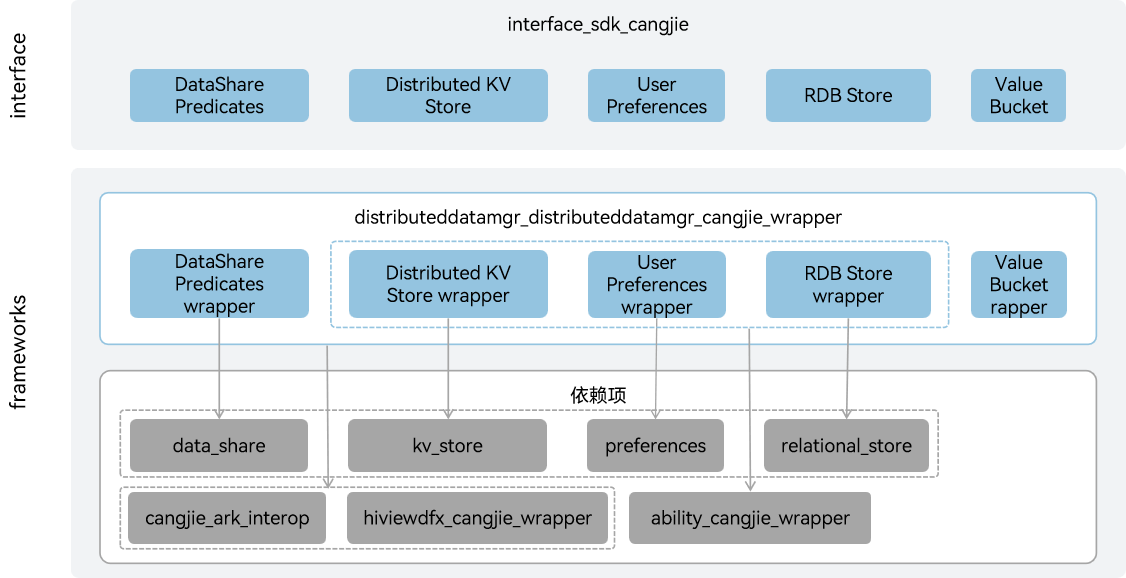
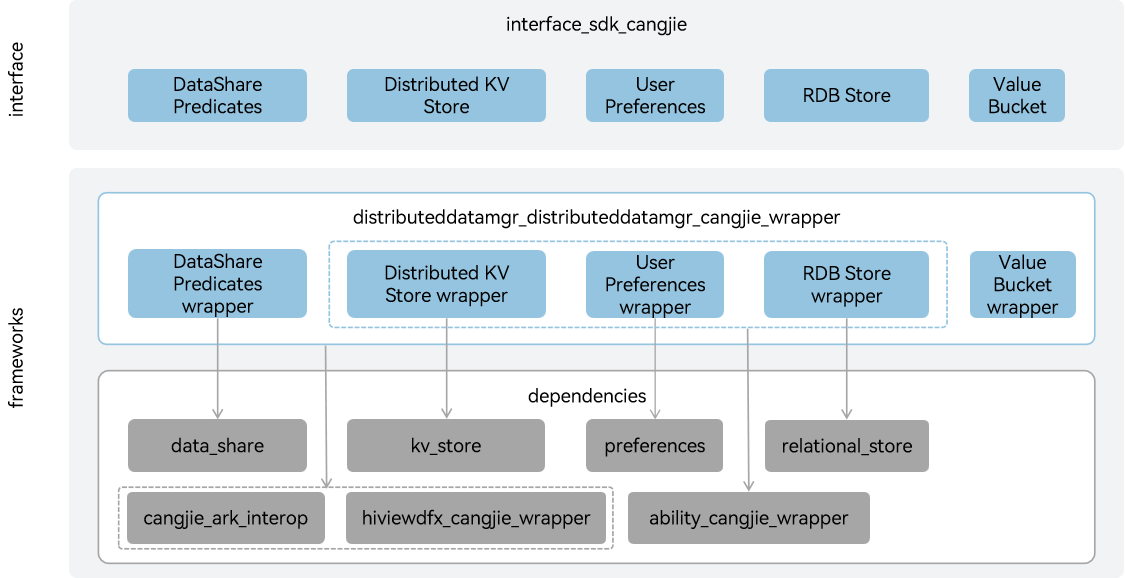
fix readme

diff --git a/README.md b/README.md
@@ -2,7 +2,7 @@
 
 ## Introduction
 
-The distributeddatamgr_distributeddatamgr_cangjie_wrapper is a capability provided on OpenHarmony for developers using the Cangjie programming language to develop applications. It enables the persistence of various structured data, as well as the synchronization and sharing of data across devices. By leveraging the Cangjie-encapsulated distributed data management, developers can easily achieve seamless connection of application data across different terminal devices, satisfying users' need for a consistent experience when using data across devices.The distributeddatamgr_distributeddatamgr_cangjie_wrapper currently under development only supports standard devices.
+The distributeddatamgr_distributeddatamgr_cangjie_wrapper provides persistence of various structured data and synchronization and sharing functions of data between different devices for developers using the Cangjie language for application development on OpenHarmony. Through the Distributed Data Management Cangjie Wrapper, developers can easily achieve seamless connection of application data between different terminal devices, meeting users' consistent experience when using data across devices. The distributeddatamgr_distributeddatamgr_cangjie_wrapper currently under development only supports standard devices.
 
 ## System Architecture
 
@@ -13,24 +13,24 @@ The distributeddatamgr_distributeddatamgr_cangjie_wrapper is a capability provid
 As shown in the architecture diagram:
 
 Interface Layer:
-- DataShare Predicates: Provides developers with data sharing predicates for implementing different query methods.
-- Distributed KV Store: Offers developers the capability to manage key-value pair data.
-- User Preferences: Supplies developers with lightweight Key-Value operations, supporting local applications in storing small amounts of data.
-- RDB Store: Provides developers with a complete mechanism for managing local databases based on the SQLite component.
-- Value Bucket: Gives developers data collections that can be inserted into the database.
+- DataShare Predicates: Provides developers with filtering conditions used to query data in databases, including comparison predicate equal conditions, logical predicate AND conditions, range predicate contains conditions, and ascending and descending sorting of result sets.
+- Distributed KV Store: Provides developers with distributed collaboration capabilities of databases between different devices, enabling data to be saved to distributed key-value databases, and allowing operations such as adding, deleting, modifying, querying, and end-to-end synchronization of data in distributed key-value databases.
+- User Preferences: Provides developers with Key-Value type data processing capabilities, supporting application persistence of lightweight data, and modification and query of such data.
+- RDB Store: Provides developers with a complete mechanism based on SQLite components for managing local databases, offering a series of interfaces for adding, deleting, modifying, and querying, and also supporting direct execution of user-input SQL statements.
+- Value Bucket: Provides developers with a data collection that can be inserted into databases.
 
 Framework Layer:
-- DataShare Predicates Wrapper: Based on the underlying data_share, it implements predicates—filter conditions used for querying data in the database. Predicates can be used to update, delete, and query data.
-- Distributed KV Store Wrapper: Built on the underlying kv_store, it enables distributed collaboration capabilities for databases across different devices. It allows data to be stored in the distributed key-value database and supports operations such as adding, deleting, modifying, querying, and end-to-end synchronization of data in the distributed key-value database.
-- User Preferences Wrapper: Relying on the underlying preferences, it realizes Key-Value data processing capabilities, supporting persistent storage of lightweight data as well as modification and query of such data.
-- RDB Store Wrapper: Based on the underlying relational_store, it implements a database that manages data using a relational model. It provides a series of interfaces for adding, deleting, modifying, and querying data, and also allows direct execution of user-input SQL statements to meet the needs of complex scenarios.
-- Value Bucket Wrapper: Implements data collections that Cangjie applications can insert into the database.
+- DataShare Predicates Wrapper: Implements data share predicates wrapper based on the underlying data sharing component, providing data share predicates for different query methods.
+- Distributed KV Store Wrapper: Implements distributed key-value database wrapper based on the underlying KV database component, providing key-value pair data management capabilities.
+- User Preferences Wrapper: Implements preferences wrapper based on the underlying preferences component, providing lightweight Key-Value operations and supporting local applications to store small amounts of data.
+- RDB Store Wrapper: Implements relational database wrapper based on the underlying relational database component, providing a database that manages data based on the relational model.
+- Value Bucket Wrapper: Implements a data collection that can be inserted into databases.
 
 Dependencies Introduction in Architecture:
-- data_share: The DataShare Predicates Wrapper depends on the data_share, which is used to implement the filter conditions for querying data in the database.
-- kv_store: The Distributed KV Store Wrapper relies on the kv_store to achieve distributed collaboration capabilities for databases across different devices.
-- preferences: The User Preferences Wrapper depends on the preferences, which is used to implement lightweight local Key-Value data processing capabilities.
-- relational_store: The RDB Store Wrapper relies on the relational_store to implement the local relational database management mechanism.
+- data_share: The DataShare Predicates Wrapper depends on the data_share, which is used to implement filtering conditions for querying data in databases.
+- kv_store: The Distributed KV Store Wrapper relies on the kv_store implement distributed collaboration capabilities of databases between different devices.
+- preferences: The User Preferences Wrapper depends on the preferences, which is used to implement lightweight local Key-Value type data processing capabilities.
+- relational_store: The RDB Store Wrapper relies on the relational_store to implement local relational database management mechanisms.
 - ability_cangjie_wrapper: The Distributed KV Store Wrapper, User Preferences Wrapper, and RDB Store Wrapper depend on the application context capability of ability_cangjie_wrapper, which is used for accessing database resources of the current application, among other purposes.
 - hiviewdfx_cangjie_wrapper: Depends on HiLog capabilities for printing logs at key points.
 - cangjie_ark_interop: Depends on APILevel class definitions and BusinessException class definitions for API annotation and throwing exceptions to users in error branches.
@@ -60,30 +60,13 @@ foundation/communication/netmanager_cangjie_wrapper
 
 ## Usage
 
-As shown in the architecture diagram, the distributed data management Cangjie API provides the following functions. Developers can comprehensively use one or more types of interfaces according to their needs:
+As shown in the architecture diagram, the distributeddatamgr_distributeddatamgr_cangjie_wrapper provides the following functions:
 
 - DataShare Predicates.
 - Distributed KV Store.
 - User Preferences.
 - RDB Store.
 - Value Bucket.
-
-Compared to ArkTS API, the following functions are not supported:
-
-- Common Data Types.
-- DataAbility Predicates.
-- DataShare.
-- Distributed Data Object.
-- Shared User Preferences.
-- Shared RDB Store.
-- Unified Data Channel.
-- Uniform Data Structs.
-- Uniform Data Definition and Description.
-- ArkData Intelligence Platform.
-- DataShare ExtensionAbility.
-- Device-Cloud Service.
-- Device-Cloud Sharing Extension.
-- DataShare Result Set.
 
 For distributed data management related APIs, please refer to:
 
@@ -97,23 +80,21 @@ For related guidance, please refer to [Distributed Data Management Development G
 
 ## Constraints
 
-Compared to ArkTS API, the following functions are not supported:
+Compared to ArkTS API:
 
-- Common Data Types.
-- DataAbility Predicates.
-- DataShare.
-- Distributed Data Object.
-- Shared User Preferences.
-- Shared RDB Store.
-- Unified Data Channel.
-- Uniform Data Structs.
-- Uniform Data Definition and Description.
-- ArkData Intelligence Platform.
-- DataShare ExtensionAbility.
-- Device-Cloud Service.
-- Device-Cloud Sharing Extension.
-- DataShare Result Set.
-- Pasteboard.
+- RDB Store does not currently support the following functions:
+  - Transactions.
+- Common Data Types is not currently supported.
+- DataAbility Predicates is not currently supported.
+- DataShare is not currently supported.
+- Distributed Data Object is not currently supported.
+- Shared User Preferences is not currently supported.
+- Shared RDB Store is not currently supported.
+- Unified Data Channel is not currently supported.
+- Uniform Data Structs is not currently supported.
+- Uniform Data Definition and Description is not currently supported.
+- ArkData Intelligence Platform is not currently supported.
+- Device-Cloud Service is not currently supported.
 
 ## Code Contribution
 

diff --git a/README_zh.md b/README_zh.md
@@ -2,7 +2,7 @@
 
 ## 简介
 
-分布式数据管理仓颉封装是在OpenHarmony上面对开发者使用仓颉语言进行应用开发时提供的各种结构化数据的持久化，以及跨设备之间数据的同步、共享功能。开发者通过分布式数据管理仓颉封装，能够方便地完成应用程序数据在不同终端设备间的无缝衔接，满足用户跨设备使用数据的一致性体验。当前开发的分布式数据管理仓颉封装仅支持standard设备。
+分布式数据管理仓颉封装是在OpenHarmony上面向开发者使用仓颉语言进行应用开发时提供的各种结构化数据的持久化，以及跨设备之间数据的同步、共享功能。开发者通过分布式数据管理仓颉封装，能够方便地完成应用程序数据在不同终端设备间的无缝衔接，满足用户跨设备使用数据的一致性体验。当前开发的分布式数据管理仓颉封装仅支持standard设备。
 
 ## 系统架构
 
@@ -14,25 +14,25 @@
 
 接口层：
 
-- 数据共享谓词：面向开发者提供用于实现不同查询方法的数据共享谓词。
-- 分布式键值数据库：面向开发者提供键值对数据管理能力。
-- 用户首选项：面向开发者提供轻量级Key-Value操作，支持本地应用存储少量数据。
-- 关系型数据库：面向开发者提供了一套基于SQLite组件的完整的对本地数据库进行管理的机制。
+- 数据共享谓词：面向开发者提供查询数据库中数据所使用的筛选条件，包括比较谓词等于条件，逻辑谓词与条件，范围谓词包含条件以及结果集的递增排序和递减排序。
+- 分布式键值数据库：面向开发者提供不同设备间数据库的分布式协同能力，能够将数据保存到分布式键值数据库中，并可对分布式键值数据库中的数据进行增加、删除、修改、查询、端端同步等操作。
+- 用户首选项：面向开发者提供Key-Value键值型的数据处理能力，支持应用持久化轻量级数据，并对其修改和查询。
+- 关系型数据库：面向开发者提供了一套基于SQLite组件完整的对本地数据库进行管理的机制，对外提供了一系列的增、删、改、查等接口，也支持直接运行用户输入的SQL语句。
 - 数据集：面向开发者提供可向数据库插入的数据集合。
 
 框架层：
 
-- 数据共享谓词封装：基于底层数据共享部件，实现了查询数据库中数据所使用的筛选条件即谓词，利用谓词可以进行数据的更新、删除和查询。
-- 分布式键值数据库封装：基于底层KV数据库部件，实现不同设备间数据库的分布式协同能力，能够将数据保存到分布式键值数据库中，并可对分布式键值数据库中的数据进行增加、删除、修改、查询、端端同步等操作。
-- 用户首选项封装：基于底层首选项部件，实现Key-Value键值型的数据处理能力，支持持久化轻量级数据，并对其修改和查询。。
-- 关系型数据库封装：基于底层关系型数据库部件，实现了一种基于关系模型来管理数据的数据库，提供了一系列的增、删、改、查等接口，也可以直接运行用户输入的SQL语句来满足复杂的场景需要。
-- 数据集封装：实现了仓颉应用向数据库插入的数据集合。
+- 数据共享谓词封装：基于底层数据共享部件实现数据共享谓词封装，提供用于不同查询方法的数据共享谓词。
+- 分布式键值数据库封装：基于底层KV数据库部件实现分布式键值数据库封装，提供键值对数据管理能力。
+- 用户首选项封装：基于底层首选项部件实现用户首选项封装，提供轻量级Key-Value操作，支持本地应用存储少量数据。
+- 关系型数据库封装：基于底层关系型数据库部件实现关系型数据库封装，提供一种基于关系模型来管理数据的数据库。
+- 数据集封装：实现了可向数据库插入的数据集合。
 
 架构图中依赖部件引入说明：
 
 - 数据共享部件：数据共享谓词封装依赖数据共享部件，用于实现查询数据库中数据所使用的筛选条件。
 - KV数据库部件：分布式键值数据库封装依赖KV数据库部件，用于实现不同设备间数据库的分布式协同能力。
-- 首选项部件：用户首选项封装依赖首选项部件，用于实现轻量级的本地Key-Value键值型的数据处理能力。
+- 首选项部件：用户首选项封装依赖首选项部件，用于实现轻量级的本地Key-Value键值型数据处理能力。
 - 关系型数据库部件：关系型数据库封装依赖关系型数据库部件，用于实现本地关系型数据库管理机制。
 - ability_cangjie_wrapper：分布式键值数据库封装、用户首选项封装以及关系型数据库封装依赖ability_cangjie_wrapper的应用上下文能力，用于访问当前应用的数据库资源等。
 - hiviewdfx_cangjie_wrapper：依赖hiviewdfx_cangjie_wrapper提供的HiLog日志能力，用于在关键路径打印日志。
@@ -83,23 +83,21 @@ foundation/communication/netmanager_cangjie_wrapper
 
 ## 约束
 
-与ArkTS提供的API能力相比，暂不支持以下功能：
+与ArkTS提供的API能力相比：
 
-- 数据通用类型。
-- DataAbility谓词。
-- 数据共享。
-- 分布式数据对象。
-- 共享用户首选项。
-- 共享关系型数据库。
-- 标准化数据通路。
-- 标准化数据结构。
-- 标准化数据定义与描述。
-- 智慧数据平台。
-- 数据共享扩展能力。
-- 端云服务。
-- 端云共享Extension。
-- 数据共享结果集。
-- 剪贴板。
+- 关系型数据库暂不支持以下功能：
+  - 事务。
+- 暂不支持数据共享。
+- 暂不支持数据通用类型。
+- 暂不支持DataAbility谓词。
+- 暂不支持分布式数据对象。
+- 暂不支持共享用户首选项。
+- 暂不支持共享关系型数据库。
+- 暂不支持标准化数据通路。
+- 暂不支持标准化数据结构。
+- 暂不支持标准化数据定义与描述。
+- 暂不支持智慧数据平台。
+- 暂不支持端云服务。
 
 ## 参与贡献
 
